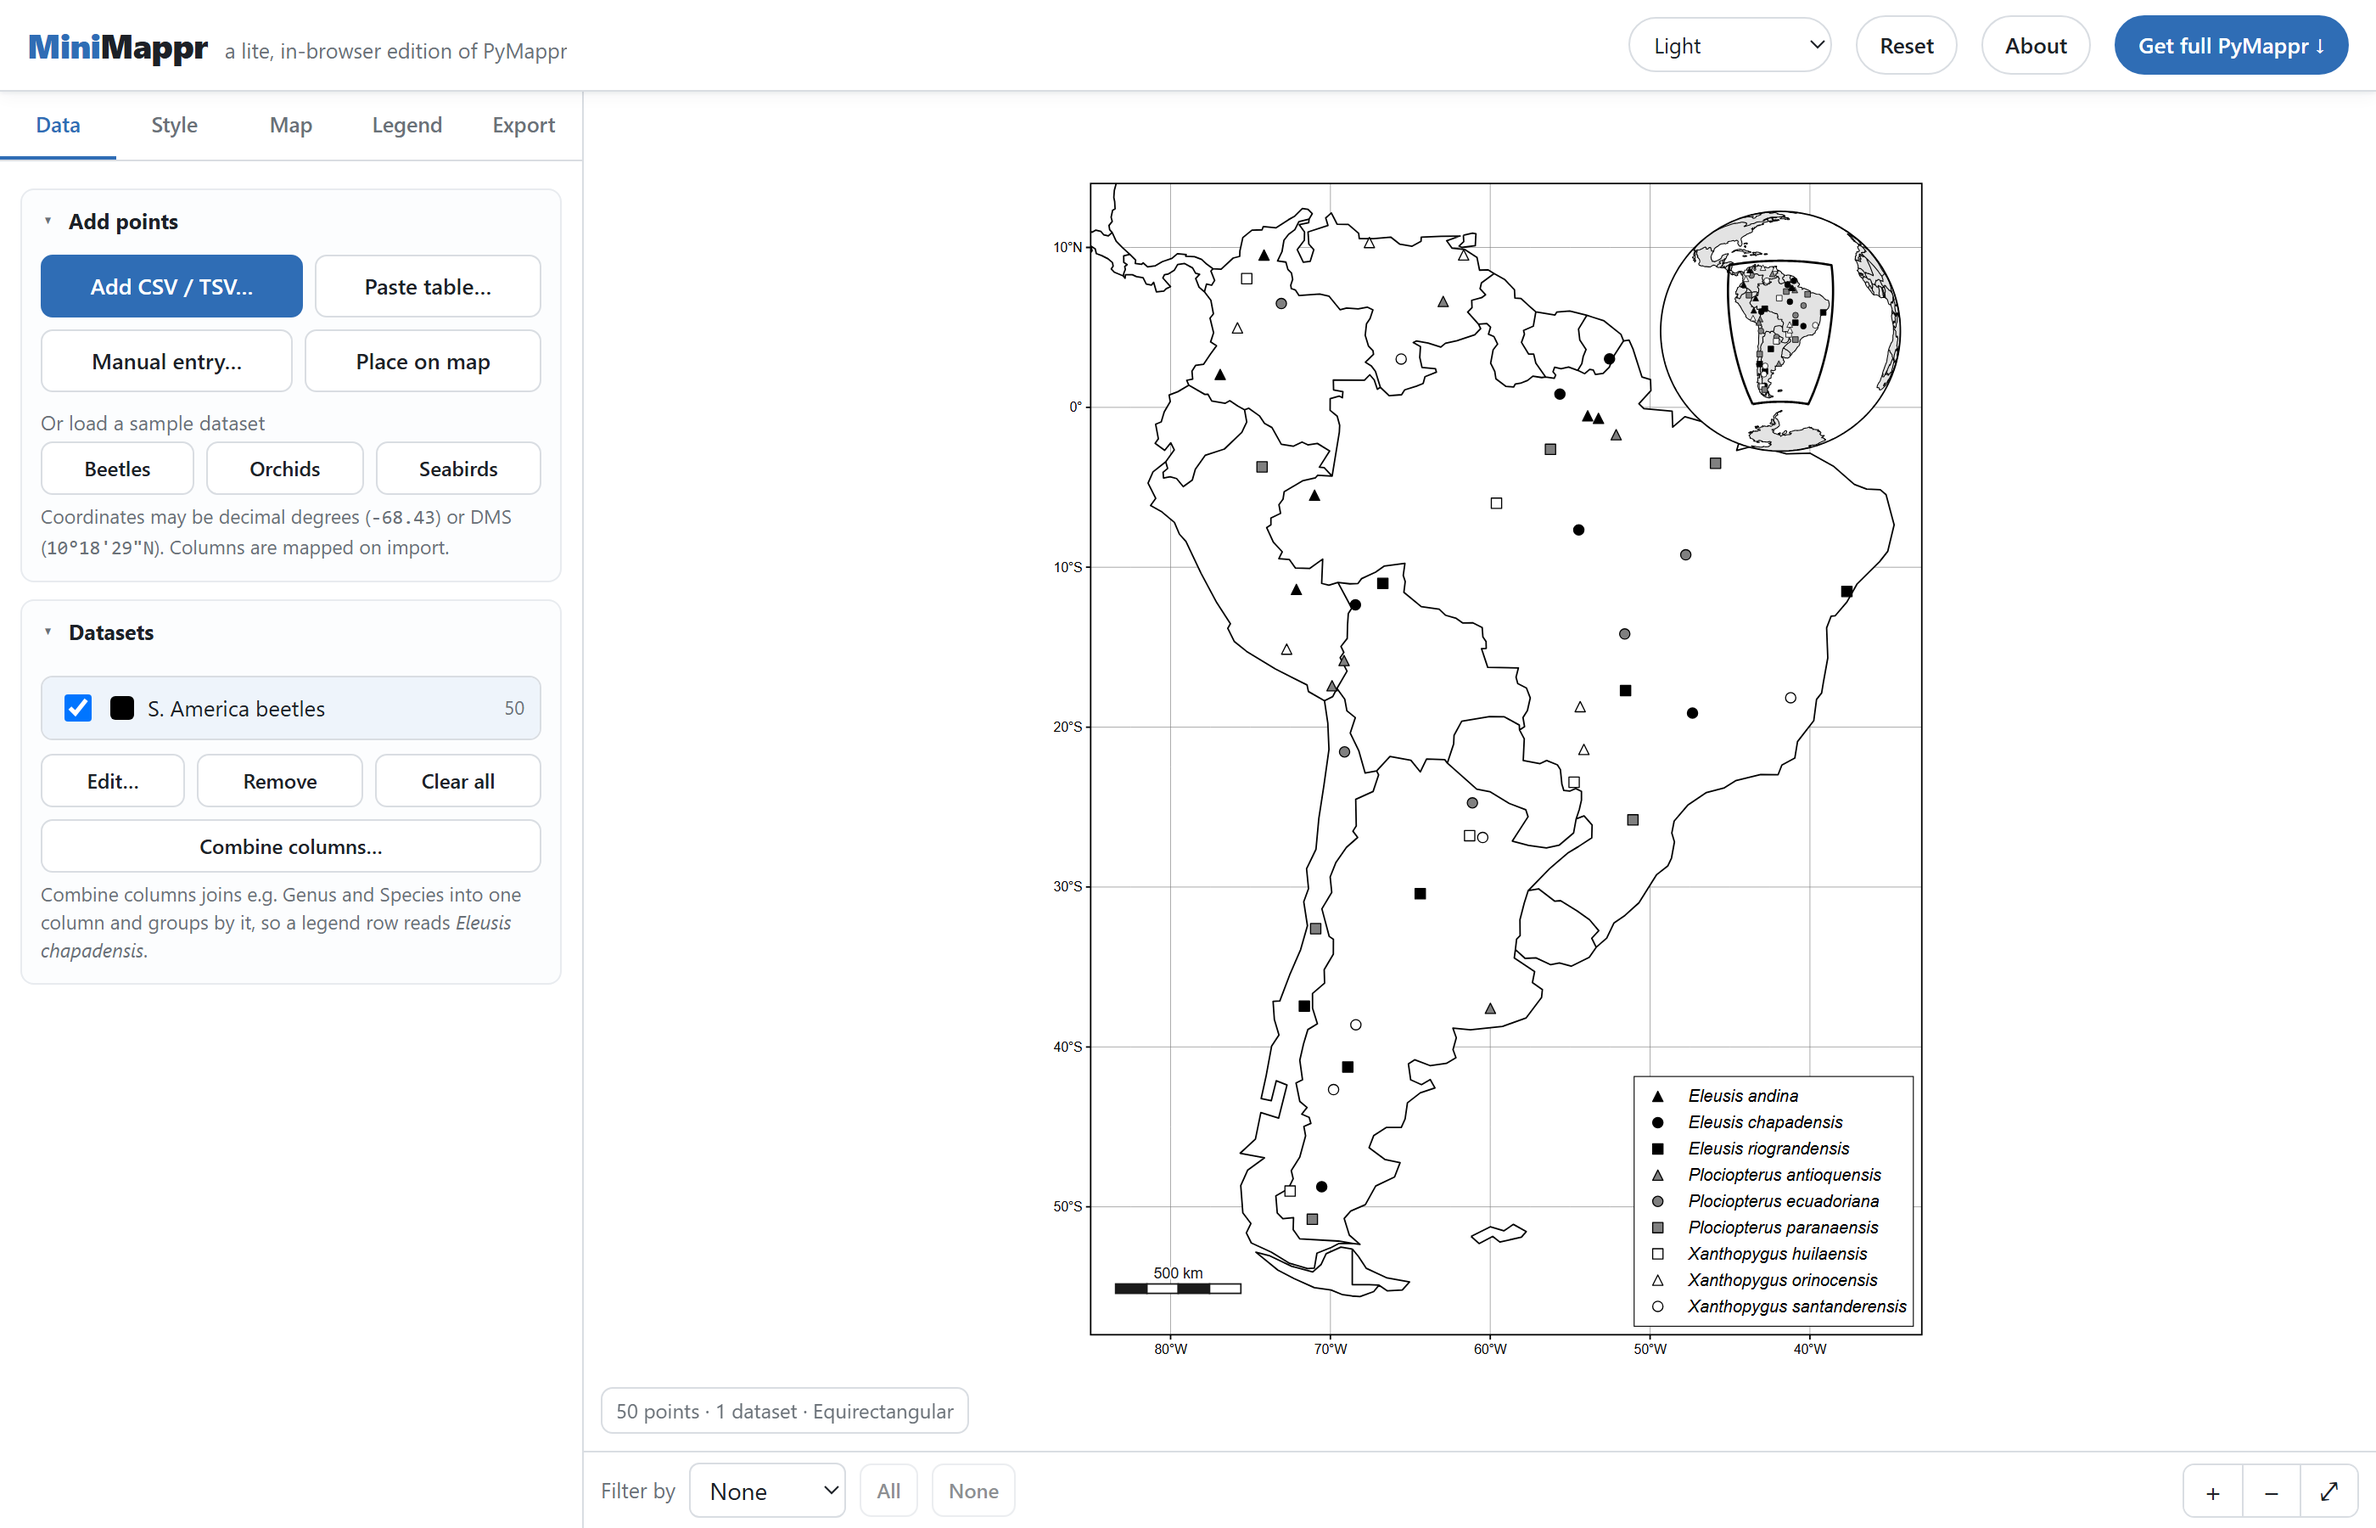
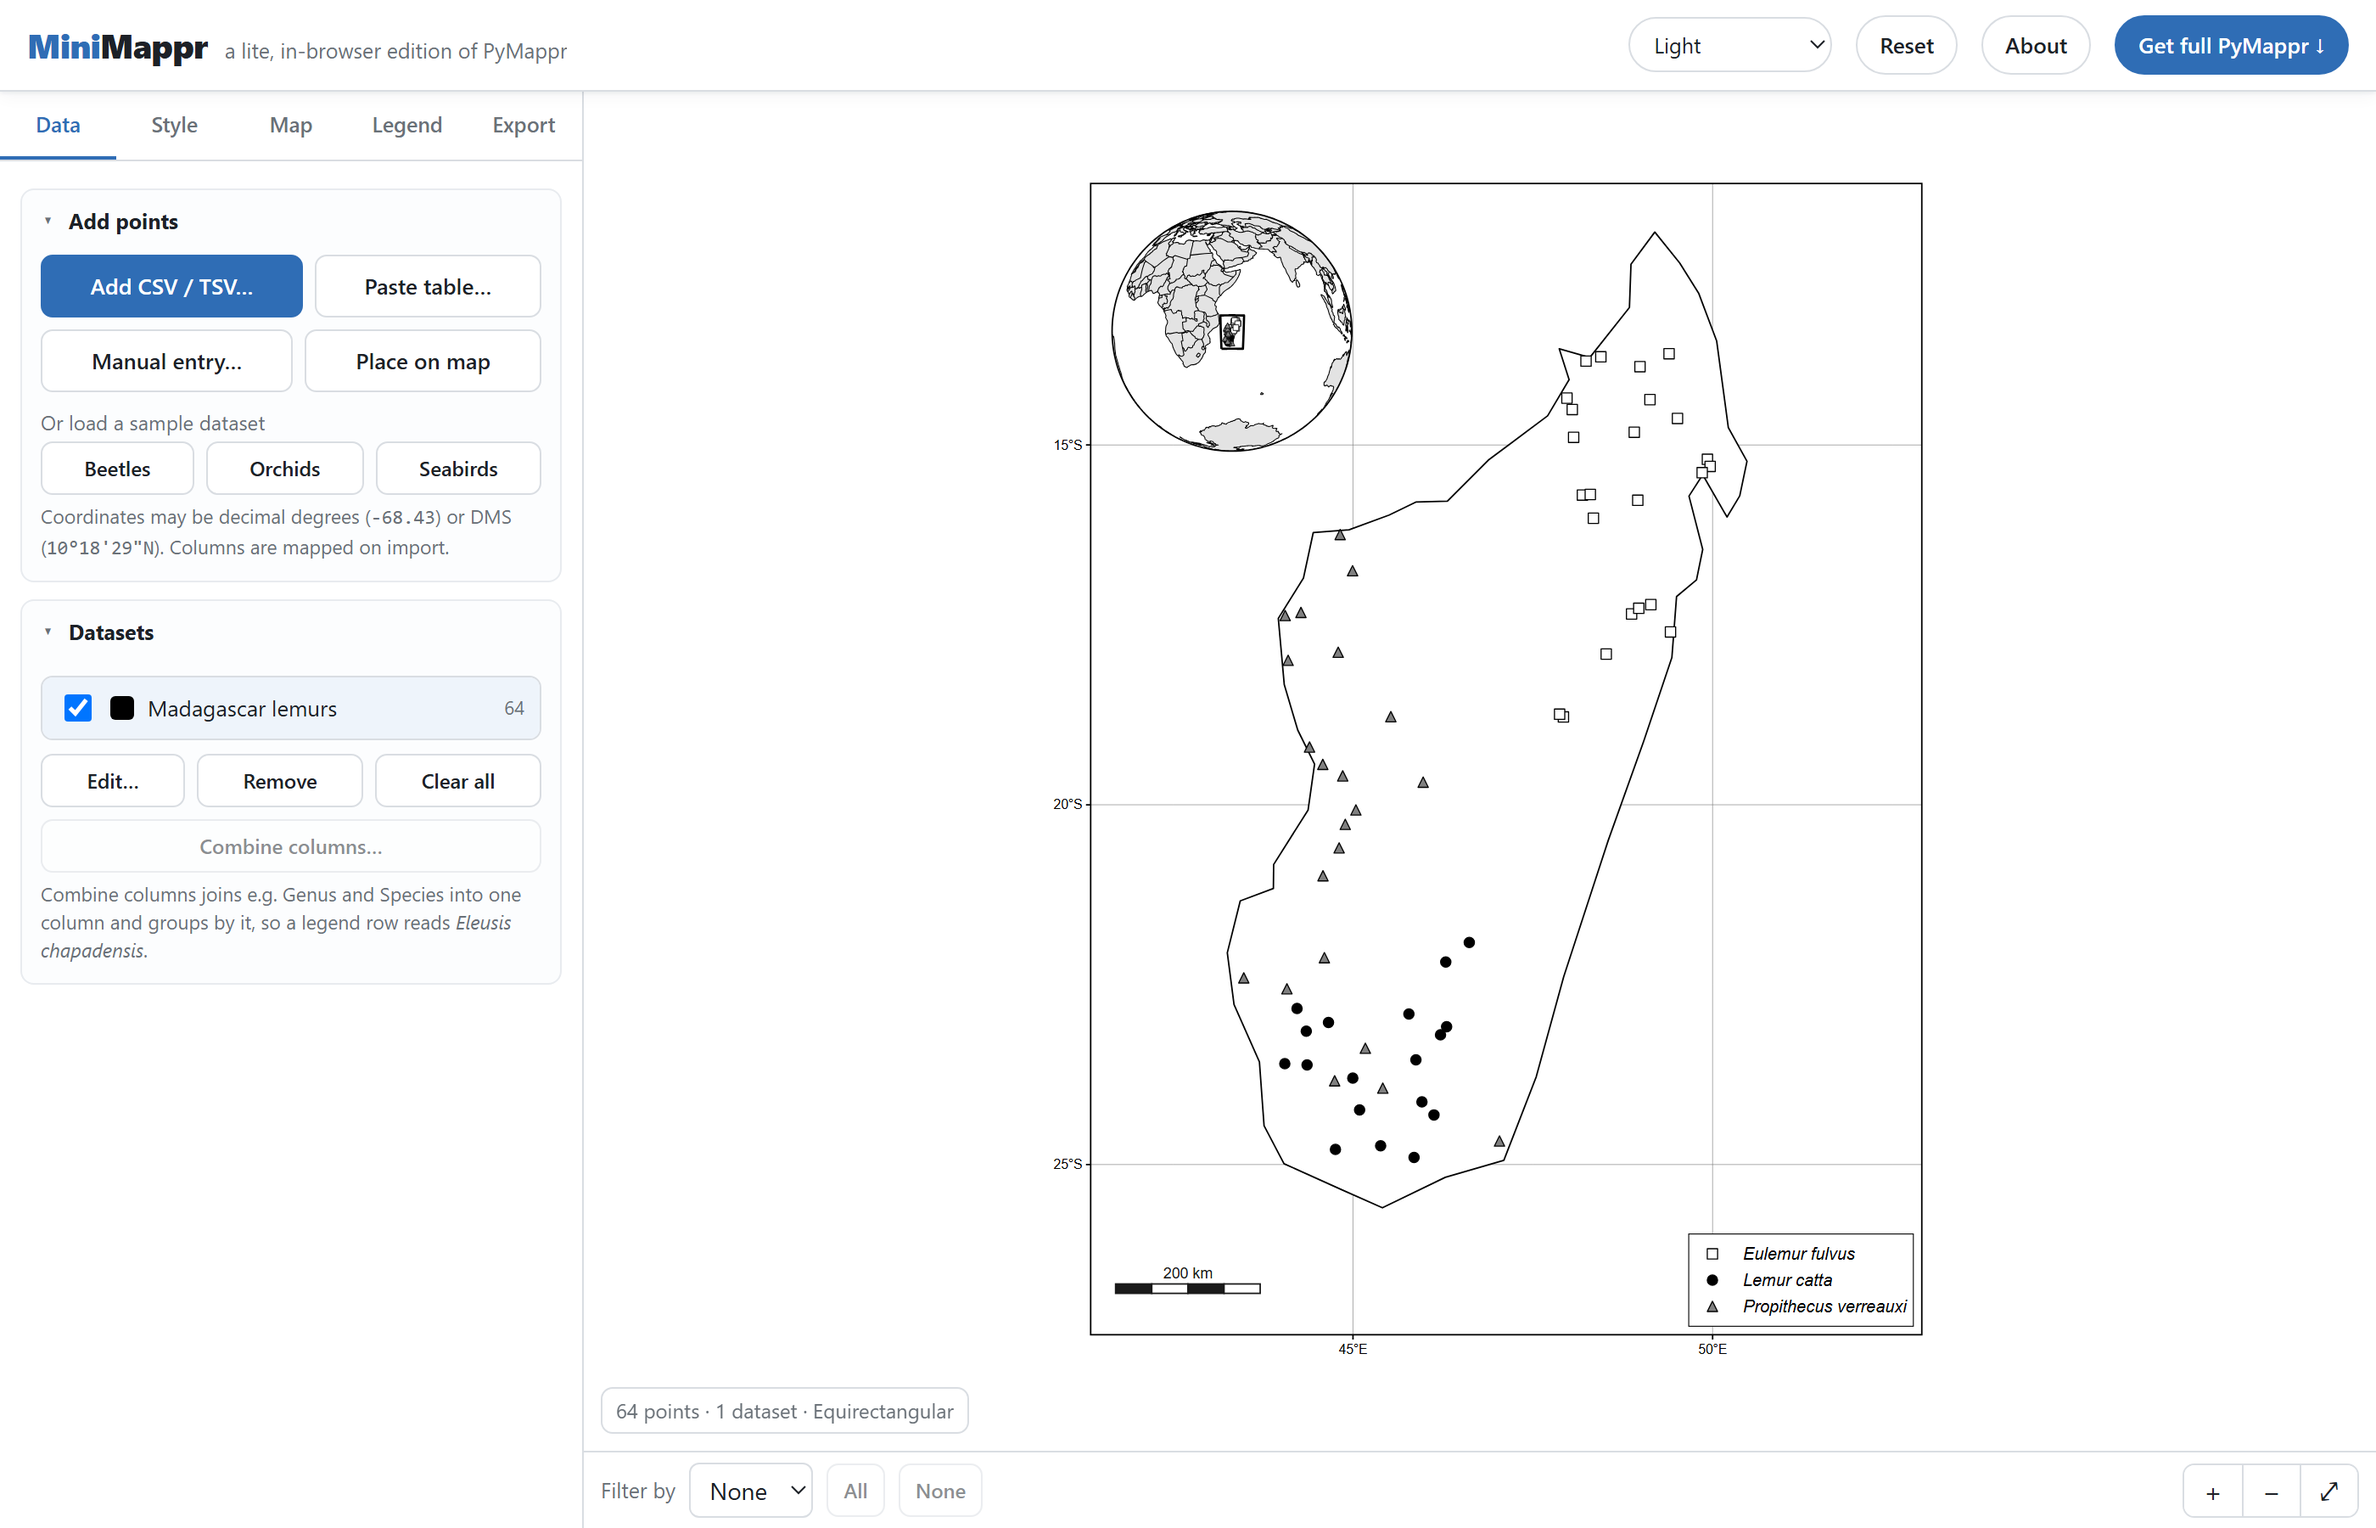
Use a Madagascar lemur figure for the MiniMappr screenshot
Matches the Madagascar gallery map: the lemur records grouped by species,
publication style, 5 degree grid, scale bar lower left, legend lower right
and a globe locator inset upper left.

diff --git a/README.md b/README.md
@@ -198,7 +198,7 @@ seabirds, and orchids.
 served by GitHub Pages from [`index.html`](index.html). It covers the core
 workflow with nothing to install.
 
-![MiniMappr in the browser: the beetle sample as a black-and-white publication figure with a 10° grid, scale bar and a globe locator inset, its legend over the South Atlantic](docs/images/minimappr.png)
+![MiniMappr in the browser: Lemur catta, Eulemur fulvus and Propithecus verreauxi in Madagascar as a black-and-white publication figure with a 5° grid, scale bar and a globe locator inset](docs/images/minimappr.png)
 
 What it has:
 
